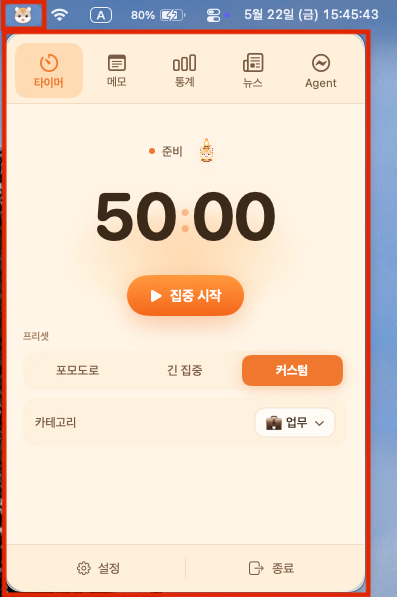
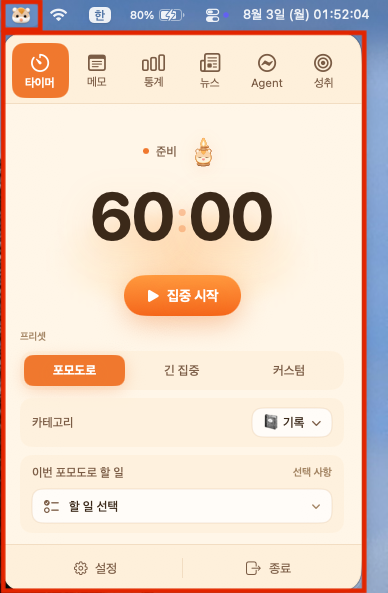
docs: Add Lumirong section and refresh menubar screenshot

diff --git a/README.en.md b/README.en.md
@@ -172,6 +172,20 @@ Goal suggestions can run on **Apple's on-device model, MLX, or Ollama**. MLX and
 <sub>Recommendation model management</sub>
 </td>
 </tr>
+
+<tr>
+<td width="45%" valign="middle">
+
+### 🪔 Lumirong (AI Companion)
+Talk to the companion wandering across your screen to decide what to work on next. The chat model can be **Apple's on-device model, MLX, or Ollama**, and MLX/Ollama models are downloaded and deleted right from Settings. Conversations and inference stay on this machine and never leave it. Once past a set time, the companion briefs today's schedule the first time it appears, and any reply you like can be saved straight to a memo. You can confine it to a rectangular roaming area, or hide it automatically during Pomodoro focus.
+
+</td>
+<td width="55%" align="center">
+<img src="./assets/features/companion-chat.png" alt="Chatting with Lumirong" width="240" />
+<br />
+<sub>Chatting with Lumirong</sub>
+</td>
+</tr>
 </table>
 
 ---
